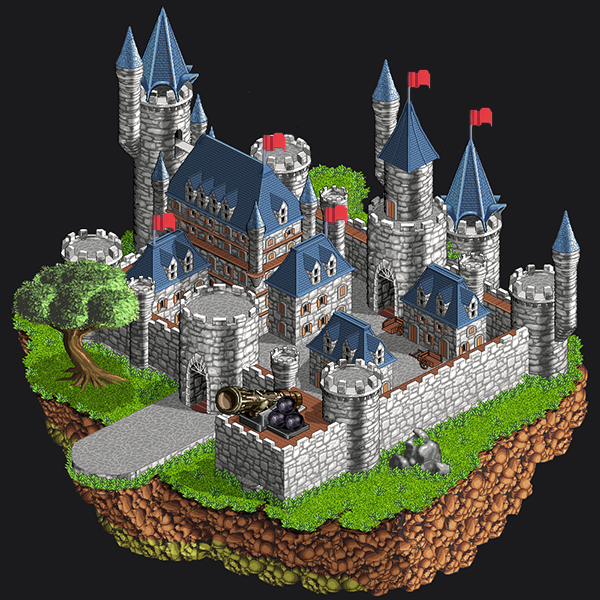
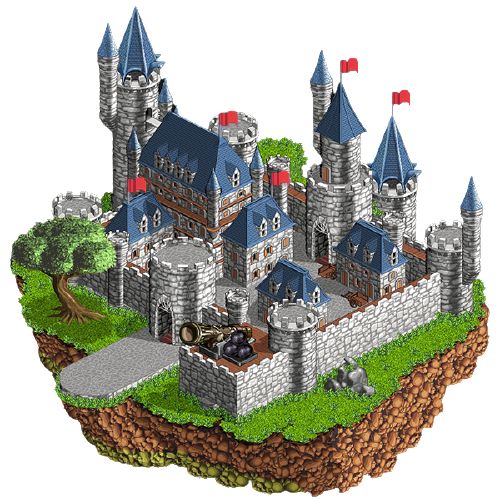
fix: img

diff --git a/Carcassonne/model/StartScreen.js b/Carcassonne/model/StartScreen.js
@@ -48,13 +48,10 @@ export default class StartScreen extends Phaser.Scene {
     this.load.plugin('rextexteditplugin', 'https://raw.githubusercontent.com/rexrainbow/phaser3-rex-notes/master/dist/rextexteditplugin.min.js', true);
   }
 
-  create() {
-    // this.stage.background = 0x1b1a1c;
-    
-    this.cameras.main.setBackgroundColor(0x1b1a1c);
-    // 0x1b1a1c
+  create() {    
+    this.cameras.main.setBackgroundColor(CONSTANTS.START_SCENE_BACKGROUND);
     this.input.setDefaultCursor('url(./assets/other/cursor.png), pointer');
-    this.add.sprite(this.game.config.width / 2 + 250, 100, 'game_logo').setScale(0.5).setDepth(2);
+    this.add.sprite(this.game.config.width / 2 + 220, 100, 'game_logo').setScale(0.5).setDepth(2);
 
     this.anims.create({
       key: 'castleAnim',
@@ -70,7 +67,7 @@ export default class StartScreen extends Phaser.Scene {
       repeat: -1,
     });
 
-    this.add.sprite(this.game.config.width / 2 + 150, 500, 'castle1').setScale(1.1).play('castleAnim');
+    this.add.sprite(this.game.config.width / 2 + 150, 500, 'castle1').setScale(1.2).play('castleAnim');
 
     const startBtnBackground = this.add.image(0, 0, 'new_game');
     const aboutBtnBackground = this.add.image(0, 0, 'about');

diff --git a/Carcassonne/index.js b/Carcassonne/index.js
@@ -113,10 +113,16 @@ let fullScreenWidth = document.documentElement.getBoundingClientRect().width;
 
 const config = {
   type: Phaser.AUTO,
-  // mode: Phaser.Scale.FIT,
-  parent: 'phaser_container',
-  width: fullScreenWidth,
-  height: fullScreenHeight,
+  scale: {
+    mode: Phaser.Scale.FIT,
+    autoCenter: Phaser.Scale.CENTER_BOTH,
+    parent: 'phaser_container',
+    width: fullScreenWidth,
+    height: fullScreenHeight,
+  },
+  // parent: 'phaser_container',
+  // width: fullScreenWidth,
+  // height: fullScreenHeight,
   pixelArt: true,
   dom: {
     createContainer: true

diff --git a/Carcassonne/model/Boot.js b/Carcassonne/model/Boot.js
@@ -32,7 +32,7 @@ export default class Boot extends Phaser.Scene {
 
     this.load.image('gameBg', './assets/other/image_1.png');
     this.load.audio('kingdom_sound', './assets/audio/kingdom.mp3');
-    this.load.image('settings_2', './assets/btns/settings_2.png');
+    this.load.image('settings', './assets/btns/settings_2.png');
     this.load.image('start_btn', './assets/btns/start_btn.png');
     this.load.image('save_btn', './assets/btns/save_btn.png');
     this.load.image('load_btn', './assets/btns/load_btn.png');

diff --git a/Carcassonne/index.html b/Carcassonne/index.html
@@ -3,7 +3,8 @@
 <head>
     <meta charset="UTF-8">
     <meta name="viewport" content="width=device-width, initial-scale=1.0">
-    <title>test1</title>
+    <title>Carcassonne rsclone</title>
+    <link rel="shortcut icon" type="image/png" href="./assets/btns/other_card_btn.png"/>
     <link rel="stylesheet" href="./css/styles.css">
     <!-- <script type="text/javascript" src="phaser.js"></script> -->
     <script src="//cdn.jsdelivr.net/npm/phaser@3.52.0/dist/phaser.js"></script>

diff --git a/Carcassonne/model/Hud.js b/Carcassonne/model/Hud.js
@@ -103,7 +103,7 @@ export default class HUD extends Phaser.Scene {
       loop: true,
       delay: 1000,
     });
-    // this.music.play();
+    this.music.play();
 
     this.nextBtn = this.add.image(this.game.config.width - 300, this.game.config.height - 100, 'next_step_btn').setInteractive();
     this.turnBtn = this.add.image(this.game.config.width - 220, this.game.config.height - 100, 'turn_btn').setInteractive();

diff --git a/Carcassonne/utils/CONSTANTS.js b/Carcassonne/utils/CONSTANTS.js
@@ -1,5 +1,6 @@
 const CONSTANTS = {
   SCENE_BACKGROUND: 0x363636,
+  START_SCENE_BACKGROUND: 0x4d5499,
   SIZE: 175,
   CARDS_COUNT: 126,
   // CARDS_COUNT: 3,
